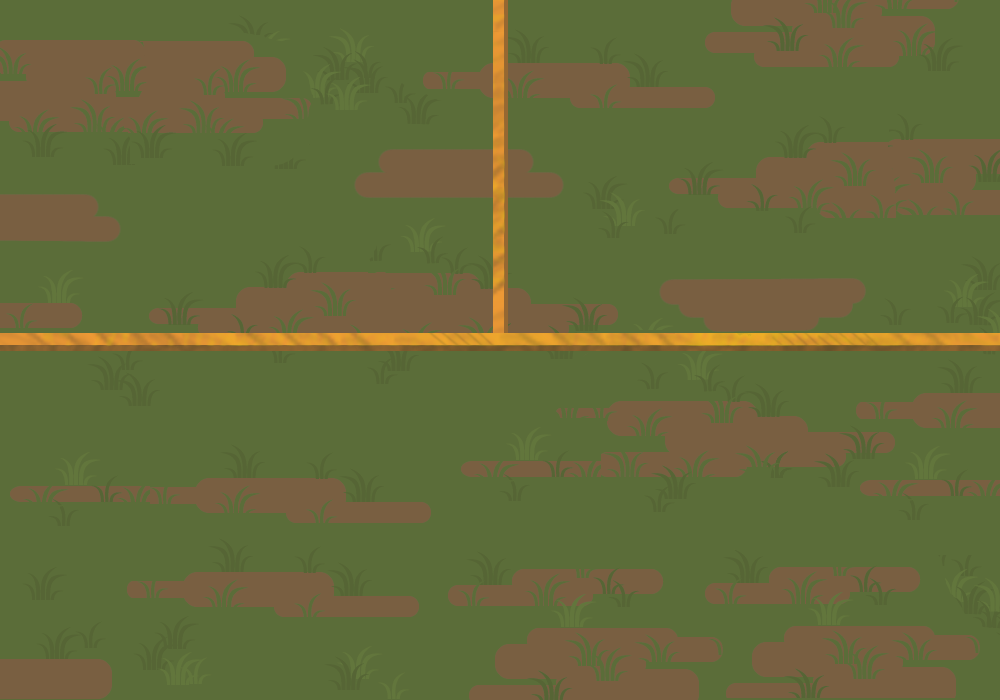
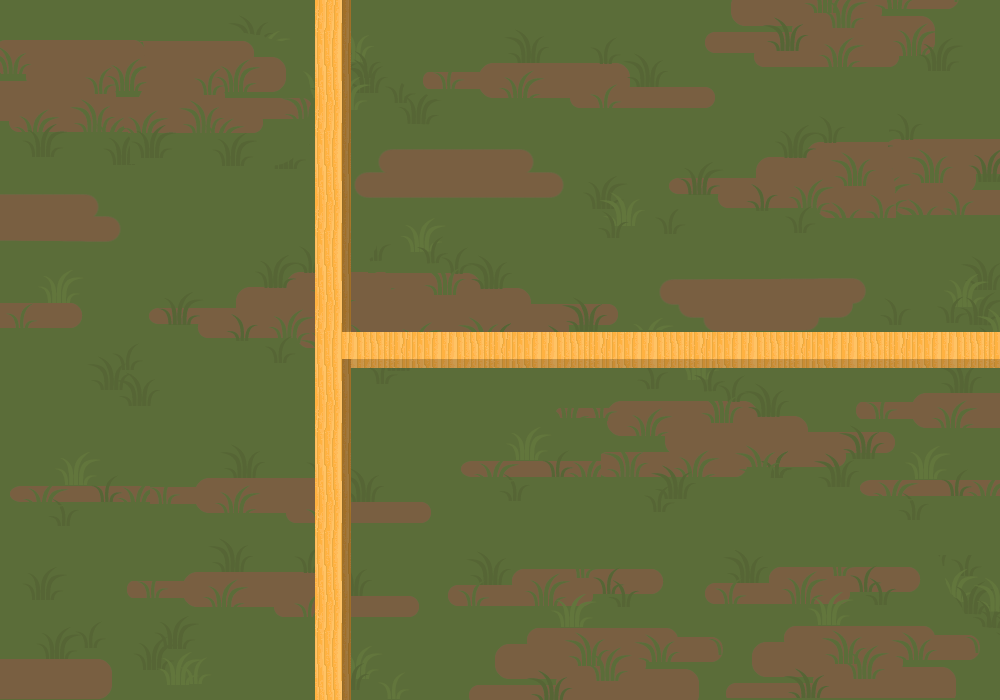
Move experiment pens to the right side
[#102706342]

Changed region(s): [[0.0, 0.0, 1.0, 1.0]]

diff --git a/models/sand-rat-demo/public/model/model.js b/models/sand-rat-demo/public/model/model.js
@@ -51,22 +51,22 @@
           width: this.env.width,
           height: this.env.height
         },
-        s: {
-          x: 0,
-          y: Math.round(this.env.height / 2),
-          width: this.env.width,
-          height: Math.round(this.env.height / 2)
-        },
-        nw: {
+        w: {
           x: 0,
           y: 0,
-          width: Math.round(this.env.width / 2),
-          height: Math.round(this.env.height / 2)
+          width: Math.round(this.env.width / 3),
+          height: this.env.height
         },
         ne: {
-          x: Math.round(this.env.width / 2),
+          x: Math.round(this.env.width / 3),
           y: 0,
-          width: Math.round(this.env.width / 2),
+          width: Math.round(this.env.width / 3) * 2,
+          height: Math.round(this.env.height / 2)
+        },
+        se: {
+          x: Math.round(this.env.width / 3),
+          y: Math.round(this.env.height / 2),
+          width: Math.round(this.env.width / 3) * 2,
           height: Math.round(this.env.height / 2)
         }
       };
@@ -146,9 +146,9 @@
       if (this.isFieldModel) {
         return this.current_counts.all = this._countRats(this.locations.all);
       } else {
-        this.current_counts.s = this._countRats(this.locations.s);
+        this.current_counts.w = this._countRats(this.locations.w);
         this.current_counts.ne = this._countRats(this.locations.ne);
-        return this.current_counts.nw = this._countRats(this.locations.nw);
+        return this.current_counts.se = this._countRats(this.locations.se);
       }
     },
     setupEnvironment: function() {
@@ -161,15 +161,15 @@
       for (i = l = 0, ref2 = startingRats; 0 <= ref2 ? l < ref2 : l > ref2; i = 0 <= ref2 ? ++l : --l) {
         this.addRat();
       }
-      $('#chow, #chow-s, #chow-nw, #chow-ne').attr('checked', false);
+      $('#chow, #chow-w, #chow-se, #chow-ne').attr('checked', false);
       this.current_counts = {
         all: {
           total: 0
         },
-        s: {
+        w: {
           total: 0
         },
-        nw: {
+        se: {
           total: 0
         },
         ne: {
@@ -180,7 +180,7 @@
     },
     addRat: function() {
       var loc, rat;
-      loc = this.isFieldModel ? this.locations.all : this.locations.s;
+      loc = this.isFieldModel ? this.locations.all : this.locations.w;
       rat = sandratSpecies.createAgent();
       rat.set('age', 20 + (Math.floor(Math.random() * 40)));
       rat.setLocation(env.randomLocationWithin(loc.x, loc.y, loc.width, loc.height, true));
@@ -249,7 +249,7 @@
         chart1 = new Chart(model, 'field-chart', 'diabetic', graph1Location);
       }
       if ($('#field-chart-2').length > 0) {
-        return chart2 = new Chart(model, 'field-chart-2', 'diabetic', 'nw');
+        return chart2 = new Chart(model, 'field-chart-2', 'diabetic', 'se');
       }
     });
     $('#view-sex-check').change(function() {
@@ -272,8 +272,8 @@
         return chart1 != null ? chart1.endPeriod(chart1PeriodId) : void 0;
       }
     });
-    $('#chow-nw').change(function() {
-      model.setChow('nw', $(this).is(':checked'));
+    $('#chow-se').change(function() {
+      model.setChow('se', $(this).is(':checked'));
       if ($(this).is(':checked')) {
         chart2PeriodId = 'chow-' + Date.now();
         return chart2 != null ? chart2.startPeriod(chart2PeriodId) : void 0;
@@ -290,8 +290,8 @@
         return chart1 != null ? chart1.endPeriod(chart1PeriodId) : void 0;
       }
     });
-    $('#chow-s').change(function() {
-      return model.setChow('s', $(this).is(':checked'));
+    $('#chow-w').change(function() {
+      return model.setChow('w', $(this).is(':checked'));
     });
     $('#time-limit').change(function() {
       model.setStopDate($(this).val() * model.targetFPS());

diff --git a/models/sand-rat-demo/app/lifespan.html b/models/sand-rat-demo/app/lifespan.html
@@ -37,25 +37,19 @@
     <script src="model/model.js"></script>
   </head>
   <body>
-    <div id="environment" style="float: left"></div>
-    <div id="controls">
-      Feed sugary chow:
-      <table>
-        <tr>
-          <td><input type="checkbox" id="chow-nw" value="prone"></td>
-          <td></td>
-          <td><input type="checkbox" id="chow-ne" value="prone"></td>
-        </tr>
-        <tr>
-          <td></td>
-          <td><input type="checkbox" id="chow-s" value="prone"></td>
-        </tr>
-      </table>
+    <div id="environment" style="vertical-align: top;"></div>
+    <div id="controls" style="display: inline-block;">
+      <div>Feed sugary chow:</div>
+      <div style="position: relative; width: 75px; height: 50px;">
+        <input type="checkbox" id="chow-w" value="prone"  style="position: absolute; left: 5px; top: 13px;"></td>
+        <input type="checkbox" id="chow-ne" value="prone" style="position: absolute; left: 35px; top: 0px;"></td>
+        <input type="checkbox" id="chow-se" value="prone" style="position: absolute; left: 35px; top: 26px;"></td>
+      </div>
 
-      <div style="border: 1px solid #EEE; padding: 4px; margin: 6px; background-color: #DDD; margin-left: 20px;">
-        <input type="checkbox" id="view-sex-check" value="prone"> Show females and males <img style="position: absolute; width: 19px; left: 1296px;" src="images/agents/female-stack.png"> <img style="position: absolute; width: 19px;" src="images/agents/male-stack.png"><br>
-        <input type="checkbox" id="view-prone-check" value="prone"> Show diabetes propensity <img style="position: absolute; width: 19px; left: 1296px;" src="images/agents/prone-stack.png"><br>
-        <input type="checkbox" id="view-diabetic-check" value="prone"> Show rats with diabetes <img style="position: absolute; width: 19px; left: 1296px;" src="images/agents/diabetic-stack.png"><br>
+      <div style="border: 1px solid #EEE; padding: 4px; margin: 6px; background-color: #DDD; margin-left: 0px;">
+        <input type="checkbox" id="view-sex-check" value="prone"> Show females and males <img style="width: 19px;" src="images/agents/female-stack.png"> <img style="width: 19px;" src="images/agents/male-stack.png"><br>
+        <input type="checkbox" id="view-prone-check" value="prone"> Show diabetes propensity <img style="width: 19px;" src="images/agents/prone-stack.png"><br>
+        <input type="checkbox" id="view-diabetic-check" value="prone"> Show rats with diabetes <img style="width: 19px;" src="images/agents/diabetic-stack.png"><br>
       </div>
 
       <div>

diff --git a/models/sand-rat-demo/app/pens.html b/models/sand-rat-demo/app/pens.html
@@ -37,25 +37,19 @@
     <script src="model/model.js"></script>
   </head>
   <body>
-    <div id="environment" style="float: left"></div>
-    <div id="controls">
-      Feed sugary chow:
-      <table>
-        <tr>
-          <td><input type="checkbox" id="chow-nw" value="prone"></td>
-          <td></td>
-          <td><input type="checkbox" id="chow-ne" value="prone"></td>
-        </tr>
-        <tr>
-          <td></td>
-          <td><input type="checkbox" id="chow-s" value="prone"></td>
-        </tr>
-      </table>
+    <div id="environment" style="vertical-align: top;"></div>
+    <div id="controls" style="display: inline-block;">
+      <div>Feed sugary chow:</div>
+      <div style="position: relative; width: 75px; height: 50px;">
+        <input type="checkbox" id="chow-w" value="prone"  style="position: absolute; left: 5px; top: 13px;"></td>
+        <input type="checkbox" id="chow-ne" value="prone" style="position: absolute; left: 35px; top: 0px;"></td>
+        <input type="checkbox" id="chow-se" value="prone" style="position: absolute; left: 35px; top: 26px;"></td>
+      </div>
 
-      <div style="border: 1px solid #EEE; padding: 4px; margin: 6px; background-color: #DDD; margin-left: 20px;">
-        <input type="checkbox" id="view-sex-check" value="prone"> Show females and males <img style="position: absolute; width: 19px; left: 1296px;" src="images/agents/female-stack.png"> <img style="position: absolute; width: 19px;" src="images/agents/male-stack.png"><br>
-        <input type="checkbox" id="view-prone-check" value="prone"> Show diabetes propensity <img style="position: absolute; width: 19px; left: 1296px;" src="images/agents/prone-stack.png"><br>
-        <input type="checkbox" id="view-diabetic-check" value="prone"> Show rats with diabetes <img style="position: absolute; width: 19px; left: 1296px;" src="images/agents/diabetic-stack.png"><br>
+      <div style="border: 1px solid #EEE; padding: 4px; margin: 6px; background-color: #DDD; margin-left: 0px;">
+        <input type="checkbox" id="view-sex-check" value="prone"> Show females and males <img style="width: 19px;" src="images/agents/female-stack.png"> <img style="width: 19px;" src="images/agents/male-stack.png"><br>
+        <input type="checkbox" id="view-prone-check" value="prone"> Show diabetes propensity <img style="width: 19px;" src="images/agents/prone-stack.png"><br>
+        <input type="checkbox" id="view-diabetic-check" value="prone"> Show rats with diabetes <img style="width: 19px;" src="images/agents/diabetic-stack.png"><br>
       </div>
 
       <div>

diff --git a/models/sand-rat-demo/public/lifespan.html b/models/sand-rat-demo/public/lifespan.html
@@ -37,25 +37,19 @@
     <script src="model/model.js"></script>
   </head>
   <body>
-    <div id="environment" style="float: left"></div>
-    <div id="controls">
-      Feed sugary chow:
-      <table>
-        <tr>
-          <td><input type="checkbox" id="chow-nw" value="prone"></td>
-          <td></td>
-          <td><input type="checkbox" id="chow-ne" value="prone"></td>
-        </tr>
-        <tr>
-          <td></td>
-          <td><input type="checkbox" id="chow-s" value="prone"></td>
-        </tr>
-      </table>
+    <div id="environment" style="vertical-align: top;"></div>
+    <div id="controls" style="display: inline-block;">
+      <div>Feed sugary chow:</div>
+      <div style="position: relative; width: 75px; height: 50px;">
+        <input type="checkbox" id="chow-w" value="prone"  style="position: absolute; left: 5px; top: 13px;"></td>
+        <input type="checkbox" id="chow-ne" value="prone" style="position: absolute; left: 35px; top: 0px;"></td>
+        <input type="checkbox" id="chow-se" value="prone" style="position: absolute; left: 35px; top: 26px;"></td>
+      </div>
 
-      <div style="border: 1px solid #EEE; padding: 4px; margin: 6px; background-color: #DDD; margin-left: 20px;">
-        <input type="checkbox" id="view-sex-check" value="prone"> Show females and males <img style="position: absolute; width: 19px; left: 1296px;" src="images/agents/female-stack.png"> <img style="position: absolute; width: 19px;" src="images/agents/male-stack.png"><br>
-        <input type="checkbox" id="view-prone-check" value="prone"> Show diabetes propensity <img style="position: absolute; width: 19px; left: 1296px;" src="images/agents/prone-stack.png"><br>
-        <input type="checkbox" id="view-diabetic-check" value="prone"> Show rats with diabetes <img style="position: absolute; width: 19px; left: 1296px;" src="images/agents/diabetic-stack.png"><br>
+      <div style="border: 1px solid #EEE; padding: 4px; margin: 6px; background-color: #DDD; margin-left: 0px;">
+        <input type="checkbox" id="view-sex-check" value="prone"> Show females and males <img style="width: 19px;" src="images/agents/female-stack.png"> <img style="width: 19px;" src="images/agents/male-stack.png"><br>
+        <input type="checkbox" id="view-prone-check" value="prone"> Show diabetes propensity <img style="width: 19px;" src="images/agents/prone-stack.png"><br>
+        <input type="checkbox" id="view-diabetic-check" value="prone"> Show rats with diabetes <img style="width: 19px;" src="images/agents/diabetic-stack.png"><br>
       </div>
 
       <div>

diff --git a/models/sand-rat-demo/public/pens.html b/models/sand-rat-demo/public/pens.html
@@ -37,25 +37,19 @@
     <script src="model/model.js"></script>
   </head>
   <body>
-    <div id="environment" style="float: left"></div>
-    <div id="controls">
-      Feed sugary chow:
-      <table>
-        <tr>
-          <td><input type="checkbox" id="chow-nw" value="prone"></td>
-          <td></td>
-          <td><input type="checkbox" id="chow-ne" value="prone"></td>
-        </tr>
-        <tr>
-          <td></td>
-          <td><input type="checkbox" id="chow-s" value="prone"></td>
-        </tr>
-      </table>
+    <div id="environment" style="vertical-align: top;"></div>
+    <div id="controls" style="display: inline-block;">
+      <div>Feed sugary chow:</div>
+      <div style="position: relative; width: 75px; height: 50px;">
+        <input type="checkbox" id="chow-w" value="prone"  style="position: absolute; left: 5px; top: 13px;"></td>
+        <input type="checkbox" id="chow-ne" value="prone" style="position: absolute; left: 35px; top: 0px;"></td>
+        <input type="checkbox" id="chow-se" value="prone" style="position: absolute; left: 35px; top: 26px;"></td>
+      </div>
 
-      <div style="border: 1px solid #EEE; padding: 4px; margin: 6px; background-color: #DDD; margin-left: 20px;">
-        <input type="checkbox" id="view-sex-check" value="prone"> Show females and males <img style="position: absolute; width: 19px; left: 1296px;" src="images/agents/female-stack.png"> <img style="position: absolute; width: 19px;" src="images/agents/male-stack.png"><br>
-        <input type="checkbox" id="view-prone-check" value="prone"> Show diabetes propensity <img style="position: absolute; width: 19px; left: 1296px;" src="images/agents/prone-stack.png"><br>
-        <input type="checkbox" id="view-diabetic-check" value="prone"> Show rats with diabetes <img style="position: absolute; width: 19px; left: 1296px;" src="images/agents/diabetic-stack.png"><br>
+      <div style="border: 1px solid #EEE; padding: 4px; margin: 6px; background-color: #DDD; margin-left: 0px;">
+        <input type="checkbox" id="view-sex-check" value="prone"> Show females and males <img style="width: 19px;" src="images/agents/female-stack.png"> <img style="width: 19px;" src="images/agents/male-stack.png"><br>
+        <input type="checkbox" id="view-prone-check" value="prone"> Show diabetes propensity <img style="width: 19px;" src="images/agents/prone-stack.png"><br>
+        <input type="checkbox" id="view-diabetic-check" value="prone"> Show rats with diabetes <img style="width: 19px;" src="images/agents/diabetic-stack.png"><br>
       </div>
 
       <div>

diff --git a/models/sand-rat-demo/public/species/sandrats-long-life.js b/models/sand-rat-demo/public/species/sandrats-long-life.js
@@ -36,12 +36,12 @@
         if (!this._isInPensModel) {
           overcrowded = model.current_counts.all.total > 46;
         } else {
-          if (this._y > model.env.height / 2) {
-            overcrowded = model.current_counts.s.total > 36;
-          } else if (this._x < model.env.width / 2) {
-            overcrowded = model.current_counts.nw.total > 25;
+          if (this._x < model.env.width / 3) {
+            overcrowded = model.current_counts.w.total > 30;
+          } else if (this._y < model.env.height / 2) {
+            overcrowded = model.current_counts.ne.total > 30;
           } else {
-            overcrowded = model.current_counts.ne.total > 25;
+            overcrowded = model.current_counts.se.total > 30;
           }
         }
         if (!overcrowded && this.get('age') > 650 && this.get('sex') === 'male' && this._timeLastMated < 0 && Math.random() < 0.3) {

diff --git a/models/sand-rat-demo/public/species/sandrats.js b/models/sand-rat-demo/public/species/sandrats.js
@@ -36,12 +36,12 @@
         if (!this._isInPensModel) {
           overcrowded = model.current_counts.all.total > 46;
         } else {
-          if (this._y > model.env.height / 2) {
-            overcrowded = model.current_counts.s.total > 36;
-          } else if (this._x < model.env.width / 2) {
-            overcrowded = model.current_counts.nw.total > 25;
+          if (this._x < model.env.width / 3) {
+            overcrowded = model.current_counts.w.total > 30;
+          } else if (this._y < model.env.height / 2) {
+            overcrowded = model.current_counts.ne.total > 30;
           } else {
-            overcrowded = model.current_counts.ne.total > 25;
+            overcrowded = model.current_counts.se.total > 30;
           }
         }
         if (!overcrowded && this.get('age') > 170 && this.get('sex') === 'male' && this._timeLastMated < 0 && Math.random() < 0.3) {

diff --git a/models/sand-rat-demo/public/model/environment-pens.js b/models/sand-rat-demo/public/model/environment-pens.js
@@ -12,7 +12,7 @@
     imgPath: "images/environments/field-pens.png",
     wrapEastWest: false,
     wrapNorthSouth: false,
-    barriers: [[0, 330, 1000, 30], [485, 0, 30, 340]]
+    barriers: [[285, 0, 85, 700], [333, 312, 667, 76]]
   });
 
   EnvRules.init(env);
